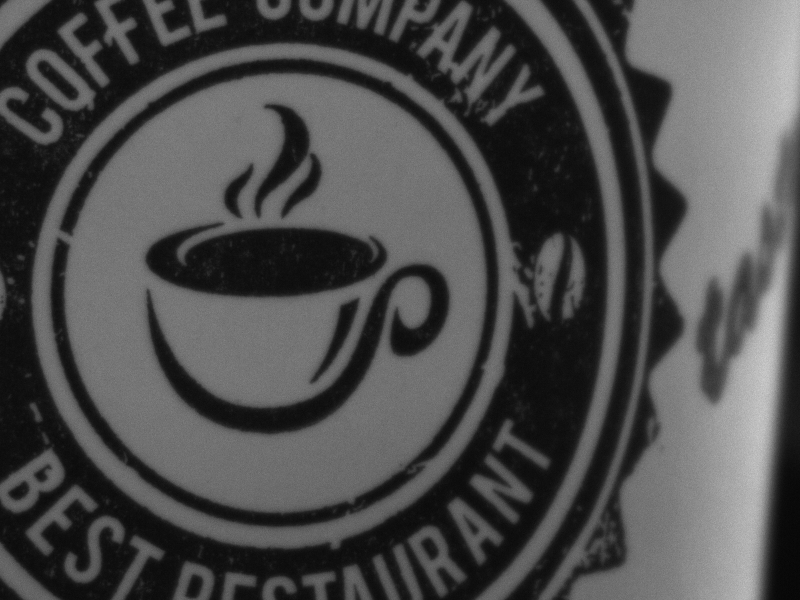
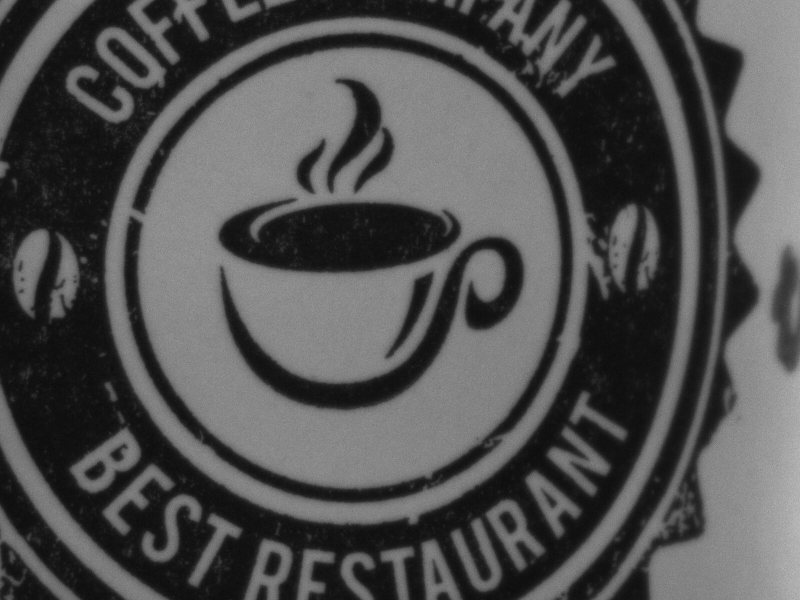
Updates on crate_new_window and create_canvas.

diff --git a/src/app.py b/src/app.py
@@ -3,7 +3,8 @@ from datetime import datetime
 import tkinter as tk
 from tkinter import ttk
 import tkinter.messagebox as messagebox
-
+from tkinter import Toplevel, Label, Scale, HORIZONTAL
+from PIL import ImageTk, Image
 import requests
 from PIL import Image, ImageTk
 from src.config import paths, logger
@@ -304,7 +305,6 @@ class BrandDetectionApp:
         self.initialize()
 
     def create_new_window(self):
-        cropped_reference_image, _ = self.crop_areas_to_compare_from_images()
         params = read_last_reference_image_parameters(self.selected_reference_image_name)
 
         self.d_var.set(params[0])
@@ -313,10 +313,12 @@ class BrandDetectionApp:
         self.threshold1_var.set(params[3])
         self.threshold2_var.set(params[4])
 
+        full_reference_image = Image.open(self.selected_reference_image_path)
+
         self.image_adjust_window = ImageAdjustWindow(
             master=self.root,
             reference_image_name=self.selected_reference_image_name,
-            canvas_image=cropped_reference_image,
+            canvas_image=full_reference_image,
             d_var=self.d_var,
             sigma_color_var=self.sigma_color_var,
             sigma_space_var=self.sigma_space_var,

diff --git a/src/utilities/image_adjust.py b/src/utilities/image_adjust.py
@@ -52,13 +52,24 @@ class ImageAdjustWindow:
         """Create a canvas and load an image onto it."""
 
         self.canvas_frame = tk.LabelFrame(self.window, bd=5)
-        # self.canvas_frame.pack(padx=10, pady=10)
         self.canvas_frame.grid(row=0, column=0, columnspan=2, padx=20, pady=20)
+
+        orig_width, orig_height = self.canvas_image.size
+        max_size = 800
+        if orig_width > max_size or orig_height > max_size:
+            if orig_width > orig_height:
+                self.resize_rate = max_size / orig_width
+            else:
+                self.resize_rate = max_size / orig_height
+        else:
+            self.resize_rate = 1
+        self.canvas_image_width = int(orig_width * self.resize_rate)
+        self.canvas_image_height = int(orig_height * self.resize_rate)
 
         self.canvas = tk.Canvas(
             self.canvas_frame,
-            width=int(self.canvas_image_width * self.resize_rate),
-            height=int(self.canvas_image_height * self.resize_rate)
+            width=self.canvas_image_width,
+            height=self.canvas_image_height
         )
         self.canvas.pack()
 
